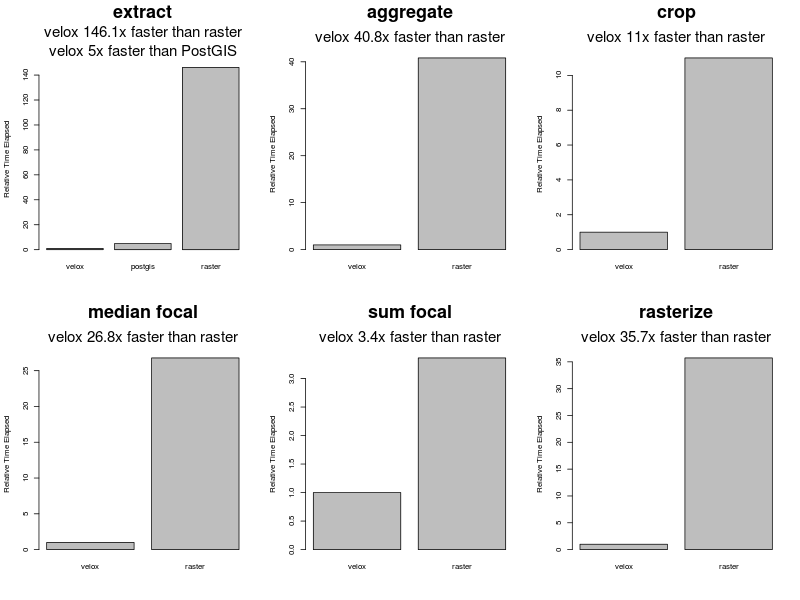
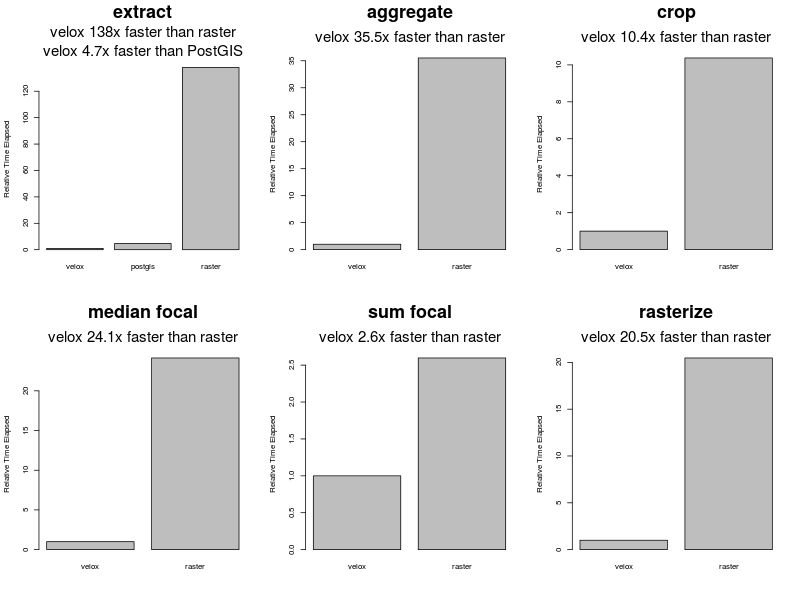
Benchmark script: PG part can now be disabled. Reran benchmarks, updated readme accordingly.

diff --git a/README.md b/README.md
@@ -49,7 +49,7 @@ install_github("hunzikp/velox")
 
 ## Benchmarking
 
-The following performance tests were peformed on a i7-4810MQ CPU at 2.80GHz, using `raster` 2.5-8, PostgreSQL 9.5 and PostGIS 2.2.
+The following performance tests were peformed on a i7-6920HQ CPU @ 2.90GHz, using `raster` 2.5-8, PostgreSQL 9.5 and PostGIS 2.2.
 See [here](https://raw.githubusercontent.com/hunzikp/velox/master/vignettes/benchmarking.R) for the underlying R script.
 
 ![](https://raw.githubusercontent.com/hunzikp/velox/master/vignettes/benchmark.png "velox benchmark")
